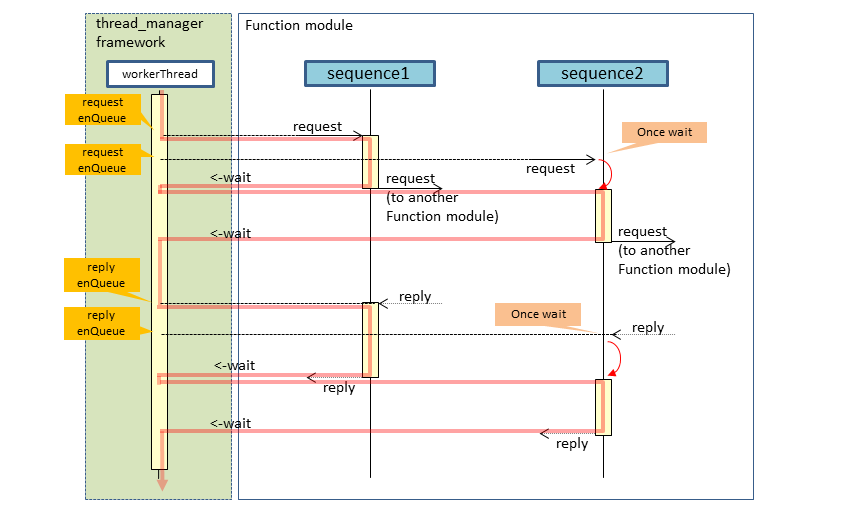
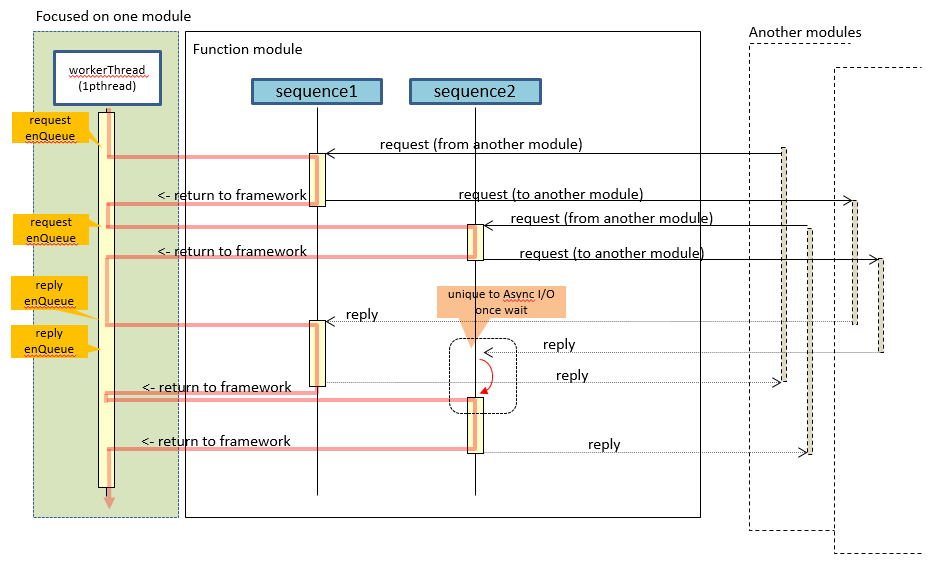
update - figure

diff --git a/README.md b/README.md
@@ -3,7 +3,11 @@ thread manager
 
 [![Build Status](https://travis-ci.org/ysan/thread_manager.svg?branch=master)](https://travis-ci.org/ysan/thread_manager) [![Coverage Status](https://coveralls.io/repos/github/ysan/thread_manager/badge.svg?branch=master)](https://coveralls.io/github/ysan/thread_manager?branch=master)
 
-Synchronous asynchronous communication framework during multi threads and section sequence manager.
+Asynchronous I/O communication framework during multi threads and section sequence manager.  
+  
+You can communicate threads N-to-N with patterns like request-reply and notify.  
+  
+Generally, the number of callback functions that receive events increases in asynchronous processing, and the readability of the source code deteriorates. However, this framework improves the readability of the source code by enabling the description through a series of processing sequences.
 
 
 Build and install
@@ -47,11 +51,7 @@ Big picture
 
 About sequence
 ------------
-The framework first receives queue, identifies the sequence from the sent queue, and calls that message as
-an argument to the corresponding sequence. After processing the called sequence, we return control to
-the framework and enter the next message wait.
-Sequence switching is done every 1 queue, and other sequences can not operate at all.
-since sequences on the same thread are always exclusive, exclusion control between sequences is not necessary.
+The framework first receives queue, identifies the sequence from the sent queue, and calls that message as an argument to the corresponding sequence. After processing the called sequence, we return control to the framework and enter the next message wait. Sequence switching is done every 1 queue, and other sequences can not operate at all. since sequences on the same thread are always exclusive, exclusion control between sequences is not necessary.
 
 <!--
 ![about sequence](https://github.com/ysan/thread_manager/blob/master/etc/about_sequence.png)
@@ -199,7 +199,7 @@ void CModuleB::sequence1 (CThreadMgrIf *pIf)
 	switch (section_id) {
 	case SECTID_REQUEST_MODULE_A_SEQ_1:
 
-		// request to CModuleB::sequence1
+		// request to CModuleA::sequence1
 		// add a message to the request (maximum of message size: 256bytes)
 		const char *msg = "hello world\0";
 		requestAsync (_MODULE_A, CModuleA::_SEQ_1, msg, strlen(msg)+1); // (thread idx, sequence idx)
